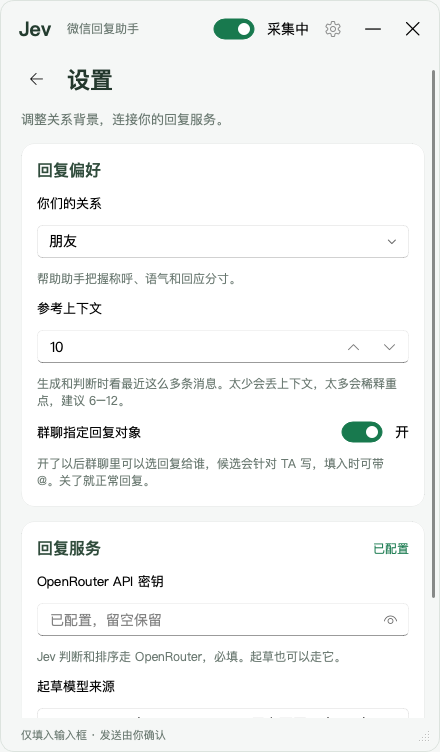
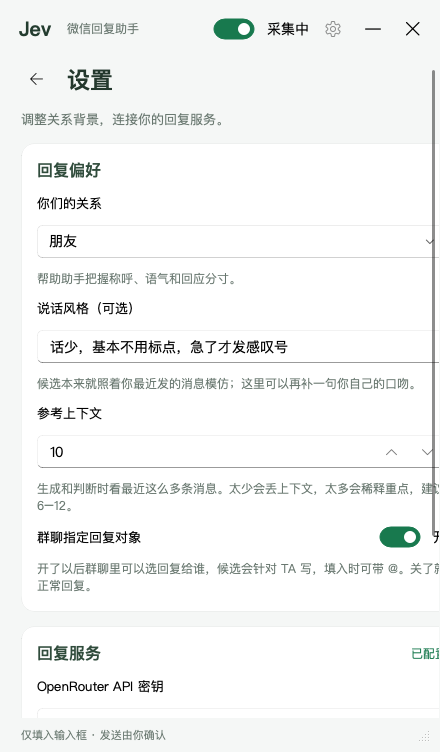
起草去 AI 味：中文 system prompt 加反模板规则、拿 me 最近的消息当口吻样本、可选「说话风格」设置、温度 1.2、去句尾句号

diff --git a/core/draft.py b/core/draft.py
@@ -29,25 +29,31 @@ PROVIDERS = {
     "deepseek": ("https://api.deepseek.com/chat/completions", "deepseek-flash", "DEEPSEEK_API_KEY"),
 }
 
+# 中文写，DeepSeek 跟得更紧。每一条都是冲着「人机感」去的，别随手删。
 SYSTEM = (
-    "You draft candidate replies for a private chat-assist tool. "
-    "The user is the speaker 'me'; 'her' is the other person (any gender). "
-    "Read the whole thread, then write EXACTLY 3 candidate next messages that 'me' could send. "
-    "Make the three genuinely different in approach (e.g. one warm/acknowledging, "
-    "one that takes responsibility or explains, one that offers a concrete next step). "
-    "Write in natural, casual Chinese as real people text on WeChat — short, human, no formal tone, "
-    "no emoji spam, no quotation marks around the whole line. "
-    "Never propose sending money, transfers, or red packets. "
-    "In a group chat the transcript prefixes each line with the speaker's own name instead of 'her', "
-    "and if one person must be replied to, the user prompt names them. "
-    'Output ONLY a JSON array of exactly 3 strings, e.g. ["...","...","..."]. No other text.'
+    "你是「me」本人，正在微信里打字。不是助手，不是客服，不是在写作文。\n"
+    "读完整段对话，写 3 条 me 接下来可能发出去的消息。\n"
+    "硬规则：\n"
+    "- 不总结、不复述对方的话，也不解释自己为什么这么回；\n"
+    "- 不用「首先」「其次」「另外」「总之」；不用「亲」「您」「希望」「祝」「加油哦」这类客套；\n"
+    "- 不排比、不对仗、不凑三段式；\n"
+    "- 句尾别习惯性加句号，能不加标点就不加；感叹号和 emoji 只有 me 自己平时用才用；\n"
+    "- 允许不完整的句子、口头语、长短错落；别每条都以「好」「嗯」开头；\n"
+    "- 三条不是「温暖版／负责版／行动版」的模板，是同一个人在三个心情下随手打的，"
+    "长短不一，其中一条可以很短（几个字）。\n"
+    "风格：优先模仿 me 在对话里的用词、句长、标点和语气词习惯（下面会给样本）；"
+    "对方是谁、什么关系看用户提示。群聊里每行用发言人自己的名字打头，指定了回复对象就只对 TA 说。\n"
+    "安全：绝不提转账、红包、借钱。\n"
+    "输出：只输出一个 JSON 数组，恰好 3 个字符串，别的什么都别写。"
 )
 
 
 def _clean(x: str) -> str:
-    """剥掉一条候选两端的括号/引号/编号/逗号——模型偶尔一行给一个 ["…"]，或者整条带引号。"""
+    """剥掉一条候选两端的括号/引号/编号/逗号——模型偶尔一行给一个 ["…"]，或者整条带引号。
+    末尾的句号也去掉（微信里很少有人用句号收尾）；？！～ 照留，那是语气。"""
     x = re.sub(r"^\s*(?:\d+[.)、]|[-*])\s*", "", x.strip())
-    return x.strip(" \t[]\"'“”‘’,，")
+    x = x.strip(" \t[]\"'“”‘’,，")
+    return x[:-1] if x.endswith("。") else x
 
 
 def _parse_candidates(content: str) -> list[str]:
@@ -132,20 +138,30 @@ def _line(m) -> str:
 
 def draft_candidates(messages: list, relationship: str, provider: str = "openrouter",
                      model: str | None = None, timeout: float = 30, keep: int = 10,
-                     reply_to: str | None = None) -> list[str]:
+                     reply_to: str | None = None, style: str = "") -> list[str]:
     """messages: [(from, text)] 或 [(from, text, name)]，from ∈ {her, me}，name = 群里的发言人；
     只看最近 keep 条。返回最多 3 条中文候选（模型两次都给不够时可能少于 3，至少 1）。
 
     reply_to: 群聊里指定回复给谁；None = 正常回复。
+    style: 用户自己描述的口吻（设置里的「说话风格」），空就只靠样本模仿。
     provider ∈ PROVIDERS；model=None 用该来源的默认模型。"""
     url, default_model, env = PROVIDERS[provider]
     transcript = "\n".join(_line(m) for m in messages[-keep:])
     user = f"relationship: {relationship}\n\n对话（最后一条是最新）:\n{transcript}"
+    # 风格样本：me 自己说过的短句，整段对话里捞（不止最近 keep 条）。链接和长段不是风格，扔掉。
+    said = [str((m.get("text") if isinstance(m, dict) else m[1]) or "").strip()
+            for m in messages if (m.get("from") if isinstance(m, dict) else m[0]) == "me"]
+    samples = [t for t in said if t and len(t) <= 60 and "http" not in t][-12:]
+    if len(samples) >= 2:
+        user += "\n\n我平时是这么说话的（模仿用词、长短、标点习惯）：\n" + "\n".join(samples)
+    if style.strip():
+        user += f"\n\n我对自己口吻的描述：{style.strip()}"
     if reply_to:
         user += f"\n\n这是群聊。你要回复的是「{reply_to}」的话，三条候选都对 TA 说，不要@别人。"
     user += "\n\n输出恰好 3 条候选，JSON 数组，每条一句。"
     chat = [{"role": "system", "content": SYSTEM}, {"role": "user", "content": user}]
-    body = {"model": model or default_model, "messages": chat, "temperature": 0.8,
+    # 1.2：DeepSeek 自己推荐的闲聊档位，0.8 出来的话太板正
+    body = {"model": model or default_model, "messages": chat, "temperature": 1.2,
             "stream": False}  # DeepSeek 要显式关；OpenRouter 无所谓
     key = _api_key(env)
 
@@ -183,4 +199,6 @@ if __name__ == "__main__":
     assert _parse_candidates('1. ["甲"]\n2. "乙"\n3. 丙') == ["甲", "乙", "丙"]
     assert _parse_candidates('["a"], ["b"], ["c"]') == ["a", "b", "c"]
     assert _parse_candidates('他说"明天见"，我回：好') == ['他说"明天见"，我回：好']
+    # 结尾的句号扒掉，？！～ 留着
+    assert _parse_three('["知道了。","真的吗？","好～"]') == ["知道了", "真的吗？", "好～"]
     print("draft._parse_three ok")

diff --git a/app/settings.py b/app/settings.py
@@ -37,6 +37,14 @@ def context() -> int:
         return _DEFAULT_CONTEXT
     return max(3, min(30, n))
 
+def style() -> str:
+    """用户自己描述的说话风格（可选，自由文本），只喂给起草模型。默认空 = 只照着最近的消息模仿。"""
+    try:
+        with open(_CONFIG, encoding="utf-8") as f:
+            return str(json.load(f).get("style") or "")
+    except (OSError, ValueError):
+        return ""
+
 def draft_provider() -> str:
     """起草走哪家：openrouter（默认）或 deepseek 直连。判断/排序永远走 OpenRouter。"""
     try:
@@ -96,7 +104,7 @@ def has_deepseek_key() -> bool:
 
 def save(key_text: str | None, relationship_text: str, context_n: int | None = None,
          deepseek_key_text: str | None = None, provider_text: str | None = None,
-         reply_target_on: bool | None = None) -> None:
+         reply_target_on: bool | None = None, style_text: str | None = None) -> None:
     """每个参数为空/None = 保留当前值。两个 key 都只写进程环境 + HKCU\\Environment，不写任何文件。"""
     if key_text:
         _set_key(_ENV, key_text)
@@ -105,6 +113,7 @@ def save(key_text: str | None, relationship_text: str, context_n: int | None = N
     n = context() if context_n is None else max(3, min(30, int(context_n)))
     provider = provider_text if provider_text in _PROVIDERS else draft_provider()  # None 或脏值 = 保留原来的
     target = reply_target() if reply_target_on is None else bool(reply_target_on)
+    style_v = style() if style_text is None else str(style_text).strip()  # 空串 = 清掉
     with open(_CONFIG, "w", encoding="utf-8") as f:
         json.dump({"relationship": relationship_text, "context": n, "draft_provider": provider,
-                   "reply_target": target}, f, ensure_ascii=False)
+                   "reply_target": target, "style": style_v}, f, ensure_ascii=False)

diff --git a/app/overlay.py b/app/overlay.py
@@ -426,6 +426,14 @@ class Overlay:
             lambda index: self.relEdit.setVisible(_RELATIONSHIPS[index][1] is None)
         )
         box.addWidget(self._hint("帮助助手把握称呼、语气和回应分寸。"))
+        style_label = _label("说话风格（可选）", 13)
+        box.addWidget(style_label)
+        self.styleEdit = LineEdit()
+        self.styleEdit.setPlaceholderText("例如：话少、不用标点、偶尔用 doge、不说客套话")
+        self.styleEdit.setAccessibleName("说话风格")
+        style_label.setBuddy(self.styleEdit)
+        box.addWidget(self.styleEdit)
+        box.addWidget(self._hint("候选本来就照着你最近发的消息模仿；这里可以再补一句你自己的口吻。"))
         context_label = _label("参考上下文", 13)
         box.addWidget(context_label)
         self.contextBox = SpinBox()
@@ -537,6 +545,7 @@ class Overlay:
         self.relationshipBox.setCurrentIndex(index)
         self.relEdit.setText(relationship if _RELATIONSHIPS[index][1] is None else "")
         self.relEdit.setVisible(_RELATIONSHIPS[index][1] is None)
+        self.styleEdit.setText(settings.style())
         self.contextBox.setValue(settings.context())
         self.targetSwitch.setChecked(settings.reply_target())
         self.keyEdit.clear()
@@ -572,7 +581,8 @@ class Overlay:
         try:
             settings.save(key or None, relationship, self.contextBox.value(),
                           deepseek_key or None, provider,
-                          reply_target_on=self.targetSwitch.isChecked())
+                          reply_target_on=self.targetSwitch.isChecked(),
+                          style_text=self.styleEdit.text().strip())
         except Exception:
             self._settings_feedback("保存失败，请检查配置文件是否可写后重试。", error=True)
             return

diff --git a/tools/preview_ui.py b/tools/preview_ui.py
@@ -68,10 +68,12 @@ def main() -> int:
     target = Path(args.screenshot).expanduser() if args.screenshot else None
 
     demo_settings = {"has_key": args.state != "setup", "relationship": "friends", "context": 10,
-                     "has_deepseek_key": False, "draft_provider": "openrouter", "reply_target": True}
+                     "has_deepseek_key": False, "draft_provider": "openrouter", "reply_target": True,
+                     "style": "话少，基本不用标点，急了才发感叹号"}
 
     def save_demo_settings(key, relationship_text, context_n=None,
-                           deepseek_key_text=None, draft_provider=None, reply_target_on=None):
+                           deepseek_key_text=None, draft_provider=None, reply_target_on=None,
+                           style_text=None):
         if key:
             demo_settings["has_key"] = True
         demo_settings["relationship"] = relationship_text
@@ -83,6 +85,8 @@ def main() -> int:
             demo_settings["draft_provider"] = draft_provider
         if reply_target_on is not None:
             demo_settings["reply_target"] = bool(reply_target_on)
+        if style_text is not None:
+            demo_settings["style"] = style_text
 
     # 在创建 Overlay 前替换设置接口，整个事件循环期间都保持隔离。
     with patch.multiple(
@@ -94,6 +98,7 @@ def main() -> int:
         has_deepseek_key=lambda: demo_settings["has_deepseek_key"],
         draft_provider=lambda: demo_settings["draft_provider"],
         reply_target=lambda: demo_settings["reply_target"],
+        style=lambda: demo_settings["style"],
         save=save_demo_settings,
     ):
         from PySide6.QtCore import QTimer

diff --git a/core/engine.py b/core/engine.py
@@ -19,12 +19,13 @@ _REPLY_IDX = {"reply_a": 0, "reply_b": 1, "reply_c": 2}
 
 def analyze(messages: list, relationship: str, model: str | None = None,
             timeout: float = 30, context: int = 10, provider: str = "openrouter",
-            reply_to: str | None = None) -> dict:
+            reply_to: str | None = None, style: str = "") -> dict:
     """messages: [(from, text)] from ∈ {her, me}，最新一条在最后；
     群聊里可以带第三项 name（说这句话的人），单聊不带。
     context: 起草和判断各看最近多少条消息（用户设置里的「参考上下文」）。
     provider: 起草走哪家（openrouter / deepseek 直连）；判断和排序永远走 OpenRouter。
     reply_to: 群聊里指定回复给谁；None = 正常回复。
+    style: 用户自己描述的说话风格，只影响起草。
     model=None 用该来源的默认模型。
 
     返回 {candidates, best_index, best_reply, scores, answers, usage, reply_to}。
@@ -32,7 +33,8 @@ def analyze(messages: list, relationship: str, model: str | None = None,
     只有对方最新说话时才有意义调它——是不是该触发由调用方判断（看 latest_from）。
     """
     candidates = draft_candidates(messages, relationship, provider=provider,
-                                  model=model, timeout=timeout, keep=context, reply_to=reply_to)
+                                  model=model, timeout=timeout, keep=context, reply_to=reply_to,
+                                  style=style)
 
     questions = dict(JUDGE_QUESTIONS)
     if len(candidates) >= 2:  # 起草只给了 1 条就没什么可排的，判断题照问

diff --git a/main.py b/main.py
@@ -78,7 +78,8 @@ def analyze_bg(msgs, title, revision, reply_to=None):
     """后台线程只跑网络调用，结果丢队列；UI 只在主线程的 tick 里动（Qt 不能跨线程碰）。"""
     try:
         results.put(("ok", analyze(msgs, settings.relationship(), context=settings.context(),
-                                   provider=settings.draft_provider(), reply_to=reply_to),
+                                   provider=settings.draft_provider(), reply_to=reply_to,
+                                   style=settings.style()),
                      title, revision))
     except Exception as e:
         results.put(("err", f"分析失败: {e}", title, revision))

diff --git a/README.md b/README.md
@@ -48,7 +48,7 @@
 - **只有对方的新消息到来才调一次模型。** 静默期零调用——十分钟没人说话就是十分钟零 token。
 - **API key 只进环境变量。** `OPENROUTER_API_KEY` 和（选了 DeepSeek 直连才要的）`DEEPSEEK_API_KEY`
   都由 `setx` 写进 Windows 用户环境变量，任何文件里都不出现 key，也绝不进日志（报错文本一律脱敏）；
-  `config.json` 里只有关系、参考上下文条数、起草来源和「群聊指定回复对象」的开关。
+  `config.json` 里只有关系、说话风格、参考上下文条数、起草来源和「群聊指定回复对象」的开关。
 
 唯一出网的是 `core/` 那几次判断/起草调用（OpenRouter，起草也可选 DeepSeek 直连），送出去的是最近若干条对话文本（设置里的「参考上下文」条数，默认 10）和关系设置。OCR 全程离线。
 
@@ -61,7 +61,7 @@ WGC 截微信窗口（GPU 合成窗口也能截，被遮挡也能截）
   → RapidOCR 只认消息区那一块
   → 按气泡颜色分 me / her，灰字（引用块、时间戳、群里的发言人名、链接卡片）过滤掉
   → 跟上一帧比，滚动翻出来的旧消息不重复上报
-  → 冒出新的 her 消息才调 core.engine.analyze()
+  → 冒出新的 her 消息才调 core.engine.analyze()（起草时把你自己最近发的几条一起喂进去，照着你的用词和标点习惯写）
   → 悬浮窗给判断摘要 + 3 条候选 → 点「填入微信」
 ```
 
@@ -138,8 +138,9 @@ pyinstaller --noconfirm --clean jev.spec
 - **填入微信**：点候选卡片上的「填入微信」，文字进微信输入框，光标留在那儿，**发送你自己按**。
 - **复制**：卡片右上角的复制按钮，想手动粘到别处就用它。
 - **聊天记录**：底部按钮展开，看 OCR 到底读出了什么，认错了一眼就能发现。
-- **设置**：随时改关系背景、key 和参考上下文条数（生成/判断看最近几条消息），下一次生成立即生效，不用重启。
-  「起草模型来源」可切到 DeepSeek 直连（更快，另填一个 DeepSeek key）；判断和排序仍走 OpenRouter。
+- **设置**：随时改关系背景、说话风格、key 和参考上下文条数（生成/判断看最近几条消息），下一次生成立即生效，不用重启。
+  「说话风格」是可选的一句话描述（比如「话少、不用标点、不说客套话」）——候选本来就照着你最近发的消息模仿，
+  这里再补一句你自己的口吻。「起草模型来源」可切到 DeepSeek 直连（更快，另填一个 DeepSeek key）；判断和排序仍走 OpenRouter。
 
 几个注意：
 
